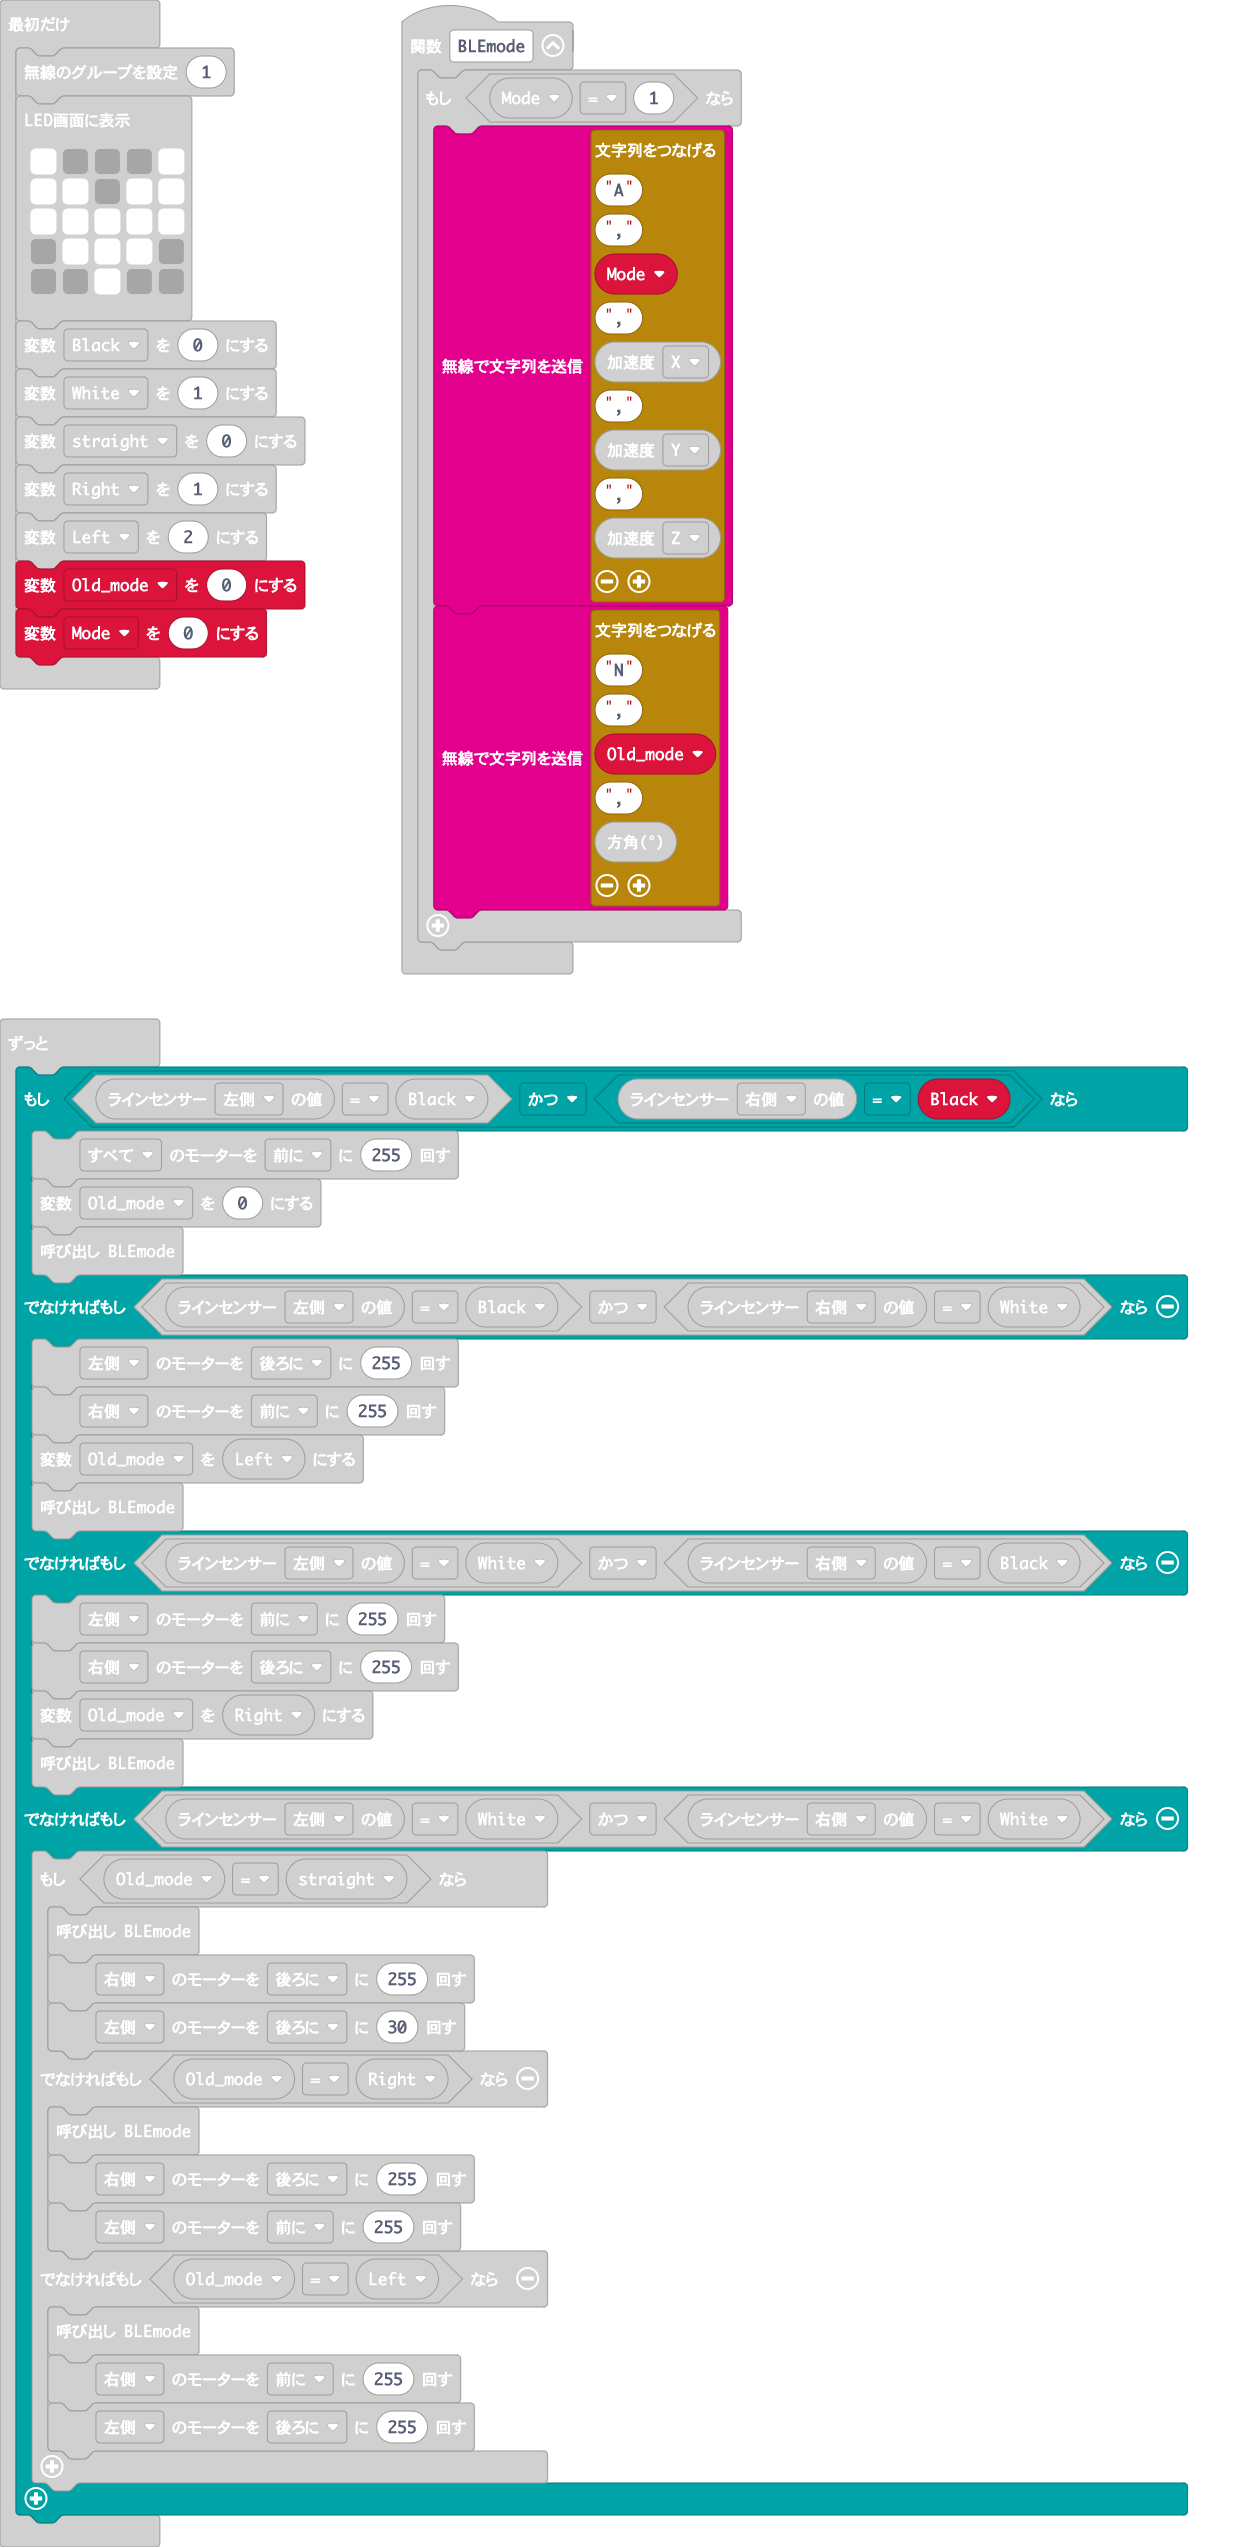
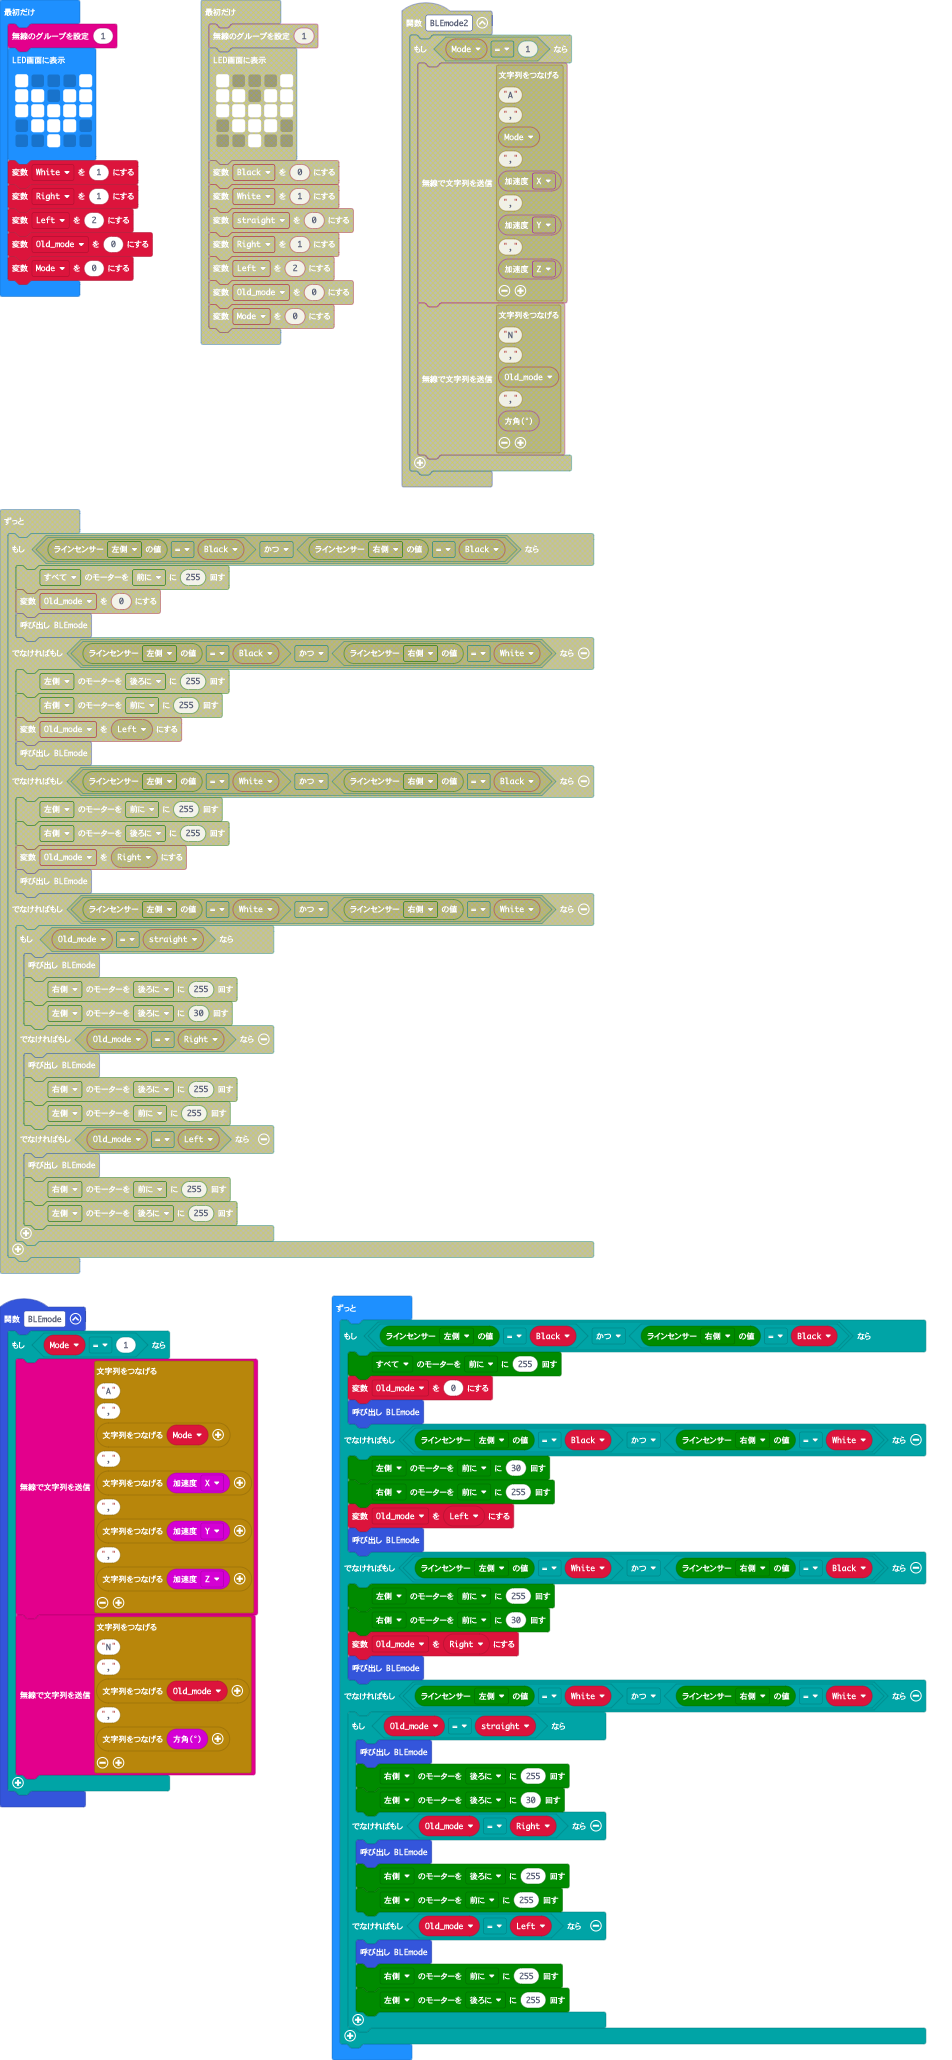
完成版（センサ感度調整必要かも）

diff --git a/main.ts b/main.ts
@@ -3,8 +3,8 @@ input.onButtonPressed(Button.A, function () {
 })
 function BLEmode () {
     if (Mode == 1) {
-        radio.sendString("A" + "," + Mode + "," + input.acceleration(Dimension.X) + "," + input.acceleration(Dimension.Y) + "," + input.acceleration(Dimension.Z))
-        radio.sendString("N" + "," + Old_mode + "," + input.compassHeading())
+        radio.sendString("A" + "," + ("" + Mode) + "," + ("" + input.acceleration(Dimension.X)) + "," + ("" + input.acceleration(Dimension.Y)) + "," + ("" + input.acceleration(Dimension.Z)))
+        radio.sendString("N" + "," + ("" + Old_mode) + "," + ("" + input.compassHeading()))
     }
 }
 input.onButtonPressed(Button.B, function () {
@@ -38,29 +38,29 @@ basic.showLeds(`
     . # # # .
     . . # . .
     `)
-let Black = 0
 let White = 1
-let straight = 0
 let Right = 1
 let Left = 2
 Old_mode = 0
 Mode = 0
 basic.forever(function () {
+    let Black = 0
     if (maqueen.readPatrol(maqueen.Patrol.PatrolLeft) == Black && maqueen.readPatrol(maqueen.Patrol.PatrolRight) == Black) {
         maqueen.motorRun(maqueen.Motors.All, maqueen.Dir.CW, 255)
         Old_mode = 0
         BLEmode()
     } else if (maqueen.readPatrol(maqueen.Patrol.PatrolLeft) == Black && maqueen.readPatrol(maqueen.Patrol.PatrolRight) == White) {
-        maqueen.motorRun(maqueen.Motors.M1, maqueen.Dir.CCW, 255)
+        maqueen.motorRun(maqueen.Motors.M1, maqueen.Dir.CW, 30)
         maqueen.motorRun(maqueen.Motors.M2, maqueen.Dir.CW, 255)
         Old_mode = Left
         BLEmode()
     } else if (maqueen.readPatrol(maqueen.Patrol.PatrolLeft) == White && maqueen.readPatrol(maqueen.Patrol.PatrolRight) == Black) {
         maqueen.motorRun(maqueen.Motors.M1, maqueen.Dir.CW, 255)
-        maqueen.motorRun(maqueen.Motors.M2, maqueen.Dir.CCW, 255)
+        maqueen.motorRun(maqueen.Motors.M2, maqueen.Dir.CW, 30)
         Old_mode = Right
         BLEmode()
     } else if (maqueen.readPatrol(maqueen.Patrol.PatrolLeft) == White && maqueen.readPatrol(maqueen.Patrol.PatrolRight) == White) {
+        let straight = 0
         if (Old_mode == straight) {
             BLEmode()
             maqueen.motorRun(maqueen.Motors.M2, maqueen.Dir.CCW, 255)

diff --git a/main.py b/main.py
@@ -1,41 +1,79 @@
-def on_received_string(receivedString):
-    global Mode
-    Mode = 1
-radio.on_received_string(on_received_string)
+def on_button_pressed_a():
+    radio.send_string("OK")
+input.on_button_pressed(Button.A, on_button_pressed_a)
+
+def BLEmode():
+    if Mode == 1:
+        radio.send_string("A" + "," + str(Mode) + "," + str(input.acceleration(Dimension.X)) + "," + str(input.acceleration(Dimension.Y)) + "," + str(input.acceleration(Dimension.Z)))
+        radio.send_string("N" + "," + str(Old_mode) + "," + str(input.compass_heading()))
+
+def on_button_pressed_b():
+    global Old_mode
+    if Mode == 0:
+        Old_mode = 1
+        basic.show_leds("""
+            . . # . .
+            . . # . .
+            # . # . #
+            # . . . #
+            # # # # #
+            """)
+    else:
+        Old_mode = 0
+        basic.show_leds("""
+            . . . . .
+            . # . # .
+            . . # . .
+            . # . # .
+            . . . . .
+            """)
+input.on_button_pressed(Button.B, on_button_pressed_b)
 
 Mode = 0
-Mode = 0
-userID = 0
+Old_mode = 0
 radio.set_group(1)
-radio.set_transmit_power(7)
 basic.show_leds("""
-    # # # # #
     # . . . #
-    # . # . #
-    # . . . #
+    # # . # #
     # # # # #
+    . # # # .
+    . . # . .
     """)
+Black = 0
+White = 1
+straight = 0
+Right = 1
+Left = 2
+Old_mode = 0
+Mode = 0
 
 def on_forever():
-    if maqueen.read_patrol(maqueen.Patrol.PATROL_LEFT) == 0 and maqueen.read_patrol(maqueen.Patrol.PATROL_RIGHT) == 0:
+    global Old_mode
+    if maqueen.read_patrol(maqueen.Patrol.PATROL_LEFT) == Black and maqueen.read_patrol(maqueen.Patrol.PATROL_RIGHT) == Black:
         maqueen.motor_run(maqueen.Motors.ALL, maqueen.Dir.CW, 255)
-    elif maqueen.read_patrol(maqueen.Patrol.PATROL_LEFT) == 0 and maqueen.read_patrol(maqueen.Patrol.PATROL_RIGHT) == 1:
-        maqueen.motor_run(maqueen.Motors.M1, maqueen.Dir.CW, 0)
+        Old_mode = 0
+        BLEmode()
+    elif maqueen.read_patrol(maqueen.Patrol.PATROL_LEFT) == Black and maqueen.read_patrol(maqueen.Patrol.PATROL_RIGHT) == White:
+        maqueen.motor_run(maqueen.Motors.M1, maqueen.Dir.CW, 30)
         maqueen.motor_run(maqueen.Motors.M2, maqueen.Dir.CW, 255)
-        if maqueen.read_patrol(maqueen.Patrol.PATROL_LEFT) == 1 and maqueen.read_patrol(maqueen.Patrol.PATROL_RIGHT) == 1:
-            maqueen.motor_run(maqueen.Motors.M1, maqueen.Dir.CW, 0)
-            maqueen.motor_run(maqueen.Motors.M2, maqueen.Dir.CW, 255)
-    elif maqueen.read_patrol(maqueen.Patrol.PATROL_LEFT) == 1 and maqueen.read_patrol(maqueen.Patrol.PATROL_RIGHT) == 0:
+        Old_mode = Left
+        BLEmode()
+    elif maqueen.read_patrol(maqueen.Patrol.PATROL_LEFT) == White and maqueen.read_patrol(maqueen.Patrol.PATROL_RIGHT) == Black:
         maqueen.motor_run(maqueen.Motors.M1, maqueen.Dir.CW, 255)
-        maqueen.motor_run(maqueen.Motors.M2, maqueen.Dir.CW, 0)
-        if maqueen.read_patrol(maqueen.Patrol.PATROL_LEFT) == 1 and maqueen.read_patrol(maqueen.Patrol.PATROL_RIGHT) == 1:
+        maqueen.motor_run(maqueen.Motors.M2, maqueen.Dir.CW, 30)
+        Old_mode = Right
+        BLEmode()
+    elif maqueen.read_patrol(maqueen.Patrol.PATROL_LEFT) == White and maqueen.read_patrol(maqueen.Patrol.PATROL_RIGHT) == White:
+        if Old_mode == straight:
+            BLEmode()
+            maqueen.motor_run(maqueen.Motors.M2, maqueen.Dir.CCW, 255)
+            maqueen.motor_run(maqueen.Motors.M1, maqueen.Dir.CCW, 30)
+        elif Old_mode == Right:
+            BLEmode()
+            maqueen.motor_run(maqueen.Motors.M2, maqueen.Dir.CCW, 255)
             maqueen.motor_run(maqueen.Motors.M1, maqueen.Dir.CW, 255)
-            maqueen.motor_run(maqueen.Motors.M2, maqueen.Dir.CW, 0)
-            if maqueen.read_patrol(maqueen.Patrol.PATROL_LEFT) == 1 and maqueen.read_patrol(maqueen.Patrol.PATROL_RIGHT) == 0:
-                maqueen.motor_run(maqueen.Motors.M1, maqueen.Dir.CW, 255)
-            else:
-                maqueen.motor_run(maqueen.Motors.M2, maqueen.Dir.CW, 0)
-    if Mode == 1:
-        radio.send_string("A" + "," + ("" + str(userID)) + "," + ("" + str(input.acceleration(Dimension.X))) + "," + ("" + str(input.acceleration(Dimension.Y))) + "," + ("" + str(input.acceleration(Dimension.Z))))
-        radio.send_string("N" + "," + ("" + str(userID)) + "," + ("" + str(input.compass_heading())))
+        elif Old_mode == Left:
+            BLEmode()
+            maqueen.motor_run(maqueen.Motors.M2, maqueen.Dir.CW, 255)
+            maqueen.motor_run(maqueen.Motors.M1, maqueen.Dir.CCW, 255)
 basic.forever(on_forever)
